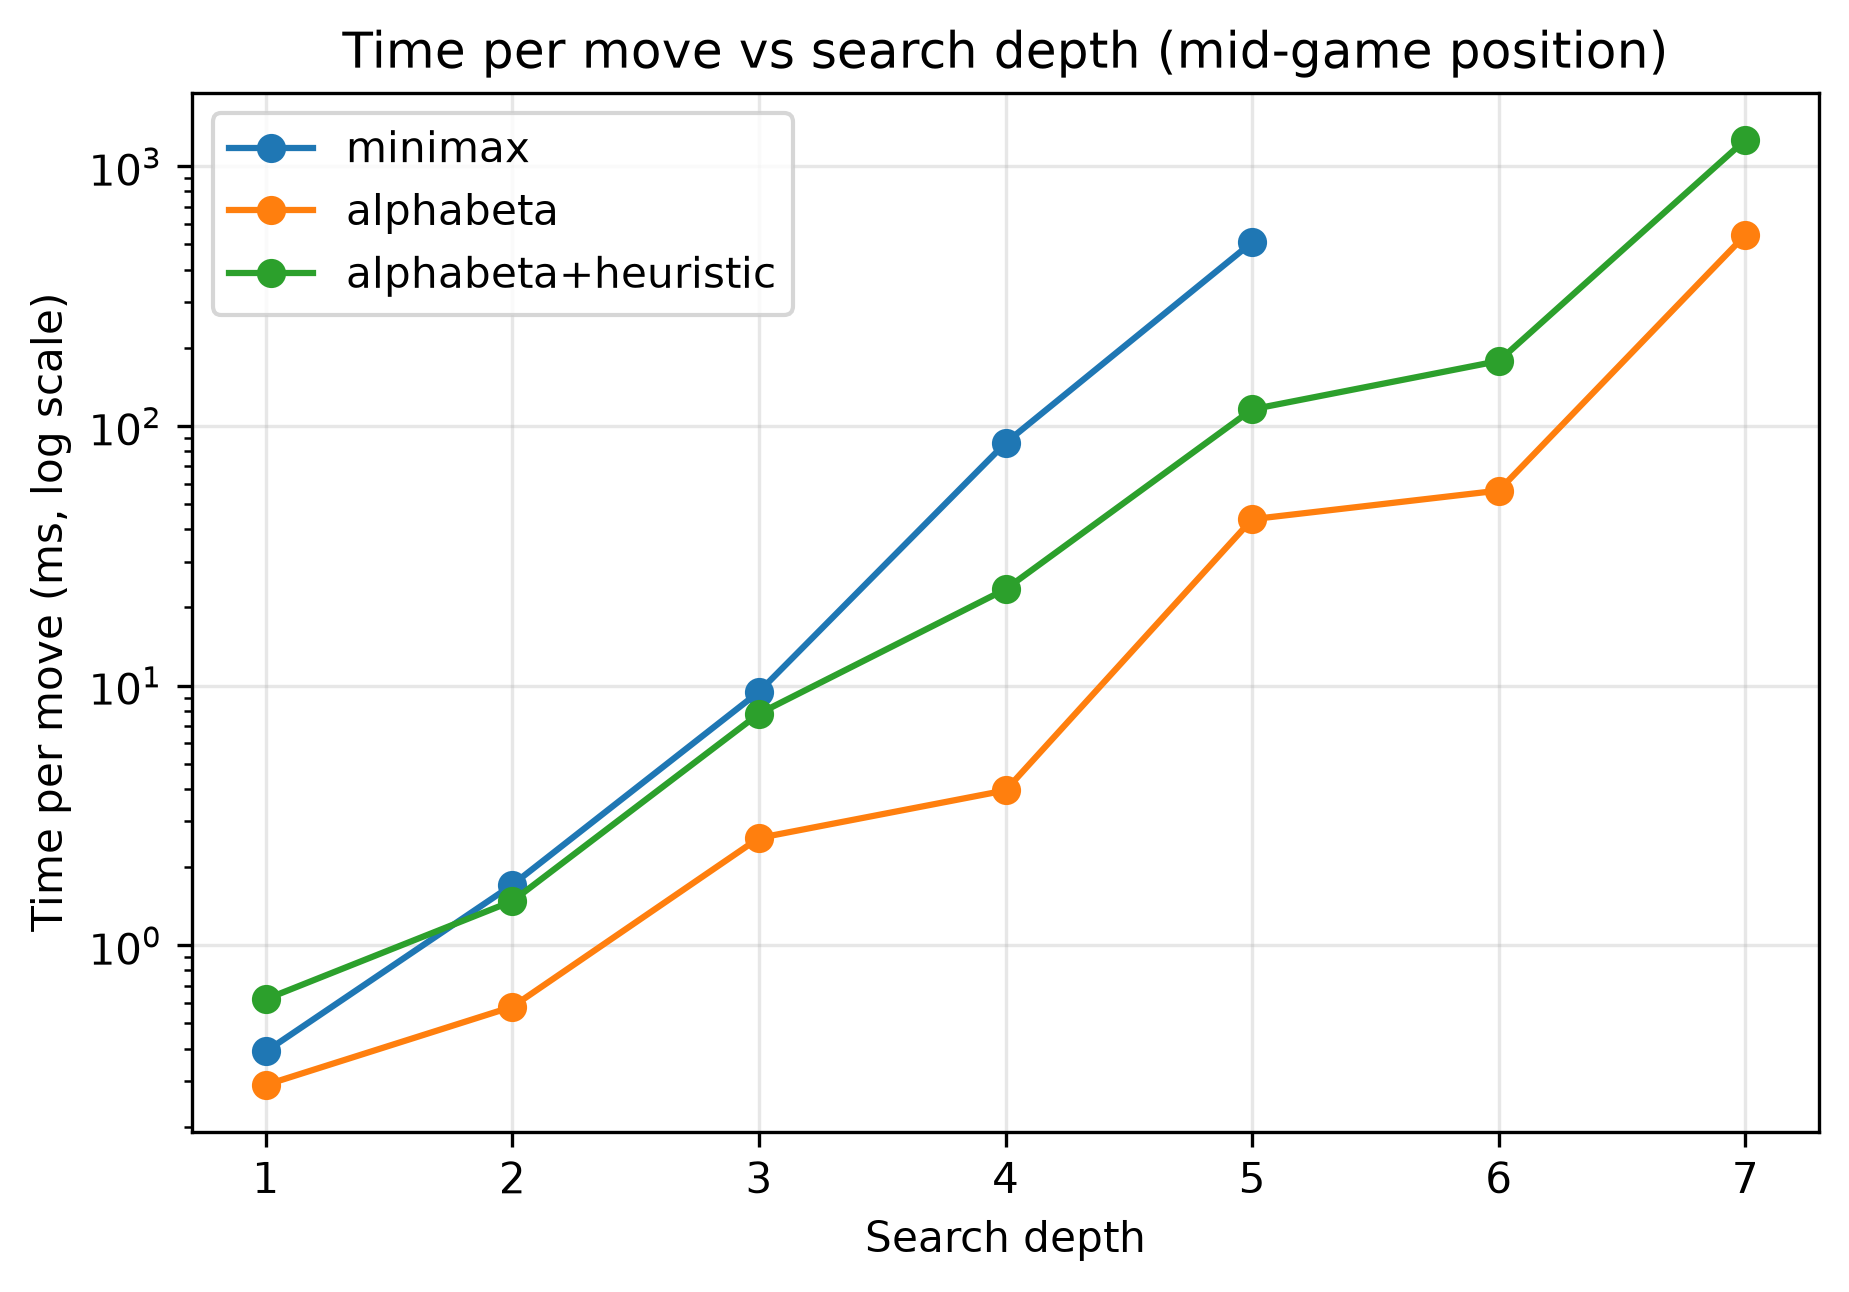
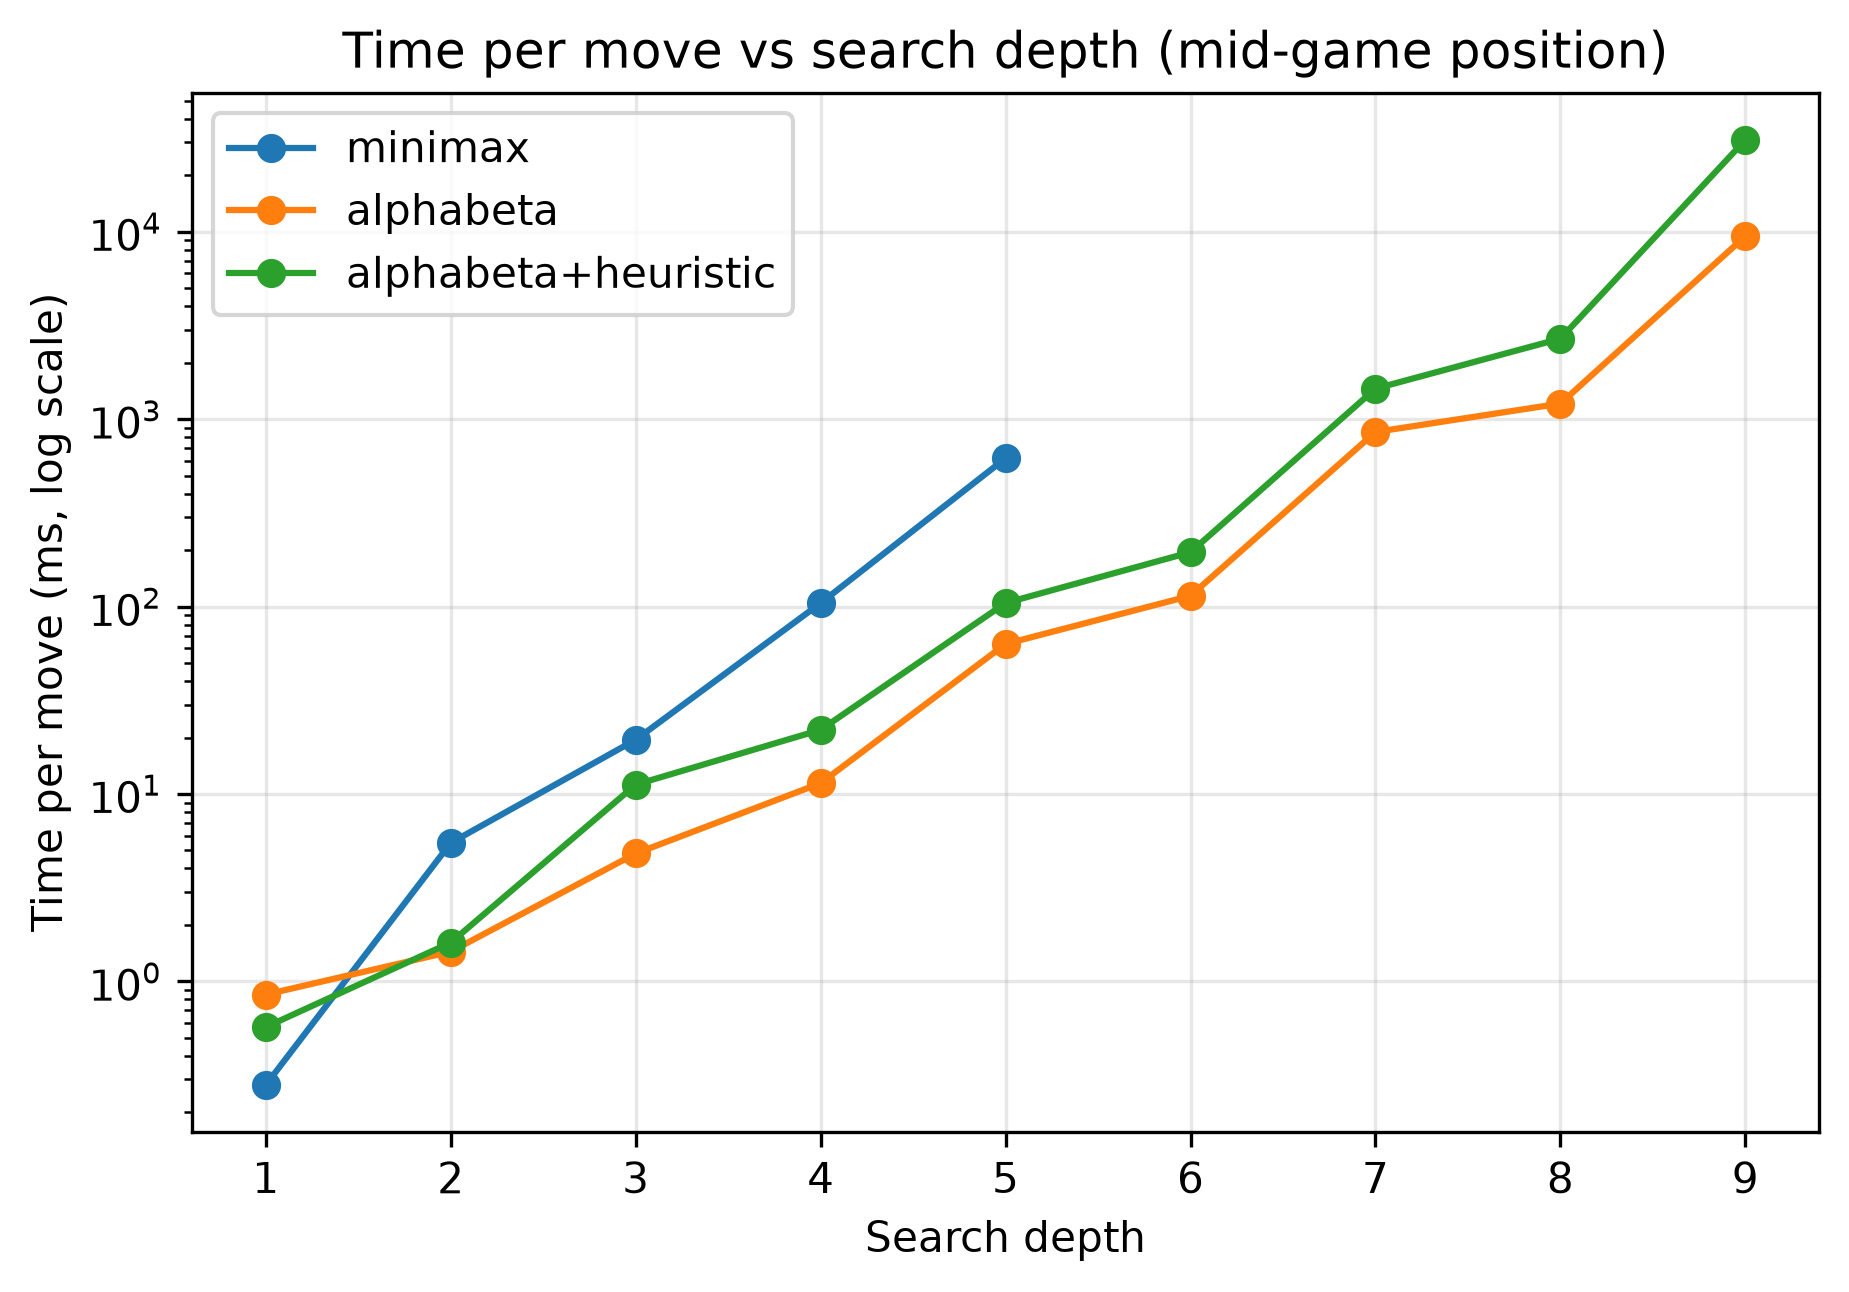
feat(phase-3): update experiment results and figures

diff --git a/experiments_cli.py b/experiments_cli.py
@@ -45,8 +45,8 @@ def save_csv(out_dir, name, header, rows):
 def run_depth(results_dir, time_cap):
     kinds = [
         ("minimax", 5, lambda p, d: MinimaxAgent(player=p, depth=d)),
-        ("alphabeta", 7, lambda p, d: AlphaBetaAgent(player=p, depth=d)),
-        ("alphabeta+heuristic", 7, lambda p, d: AlphaBetaAgent(player=p, depth=d, use_heuristic=True)),
+        ("alphabeta", 9, lambda p, d: AlphaBetaAgent(player=p, depth=d)),
+        ("alphabeta+heuristic", 9, lambda p, d: AlphaBetaAgent(player=p, depth=d, use_heuristic=True)),
     ]
     rows = []
 
